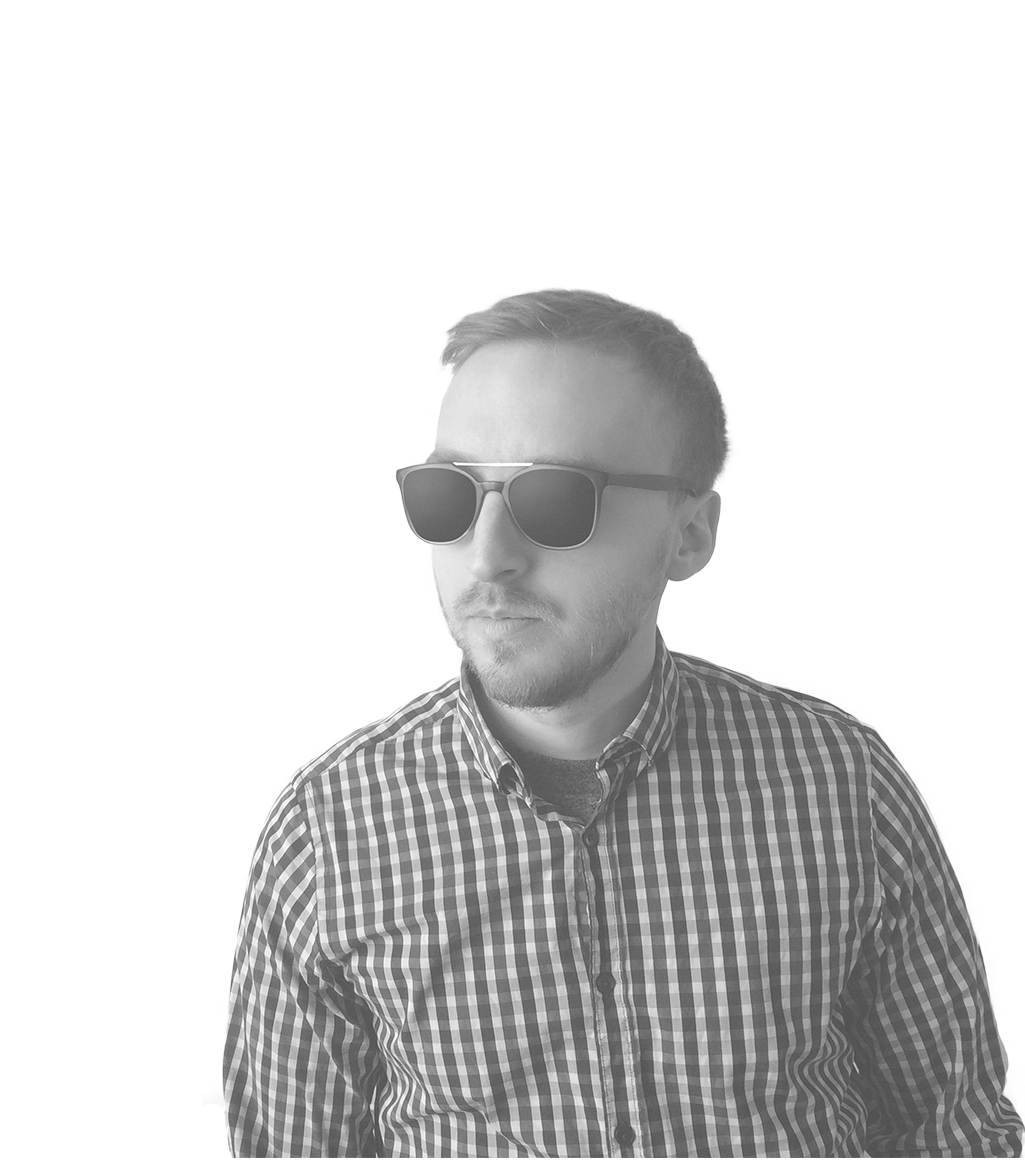
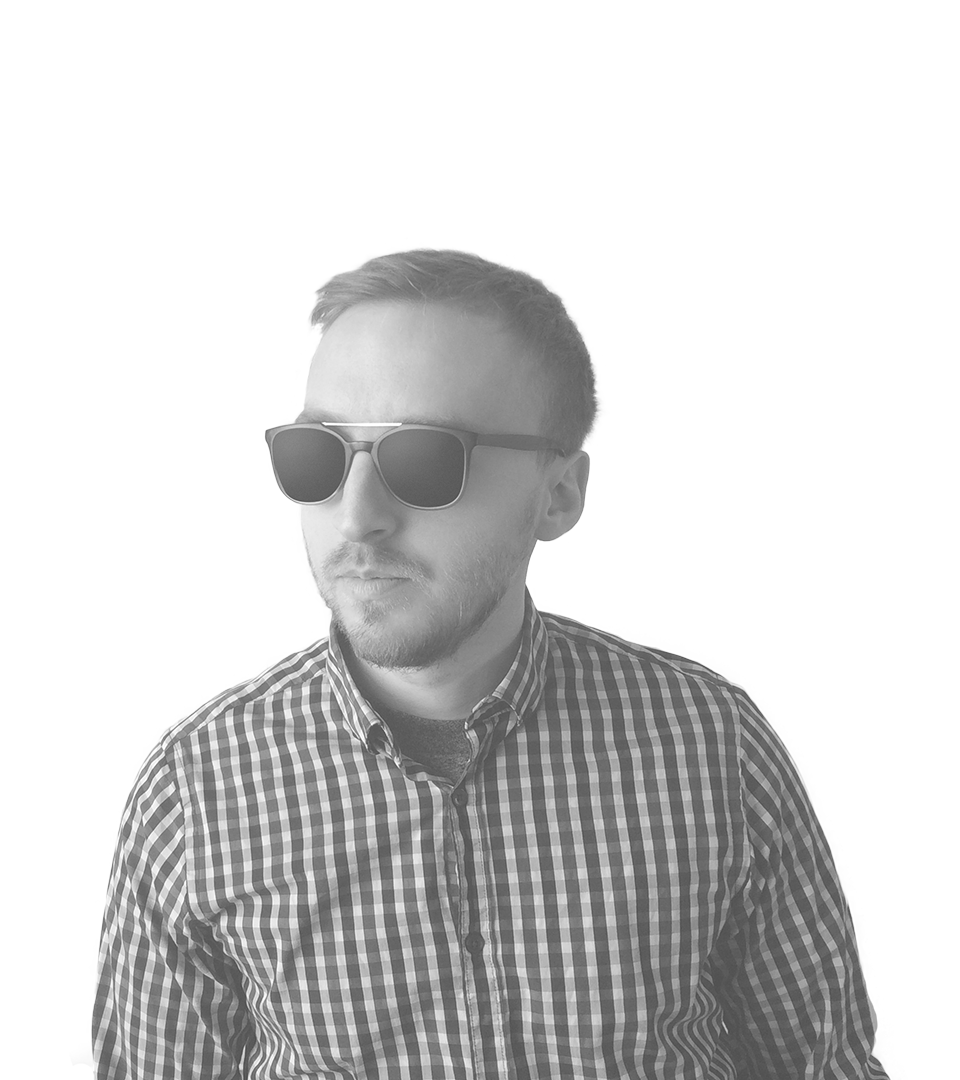
12 - fixed bg position

diff --git a/index.html b/index.html
@@ -1,6 +1,6 @@
 <!DOCTYPE html>
 <head>
-  <title>Hire UI/UX Designer</title>
+  <title>Hello</title>
 
   <!--reset browser css-->
   <link rel="stylesheet" href="https://cdnjs.cloudflare.com/ajax/libs/normalize/5.0.0/normalize.min.css">
@@ -17,32 +17,30 @@
 </head>
 
 <body>
-
   <div class="title">
     <h1>Akos Kovacs</h1>
     <h1>ui/ux designer</h1>
   </div>
+    <div class="aboutme">
+      <h1>About Me</h1>
+      <p><a>#FF5656</a> means a series of numbers for you. But it can be a good color for a button. This is how I realize the world around me over 8 years.</p>
+      <p>I always preferred the community-based knowledge, that’s why I trained myself. My skills/perspective came from the digital world. But I never forget the oldest tools: paper and pen to sketch my ideas. I always looking for new challenges in my life/career. I’m curious that’s the motivation for me. That was the reason why I choosed UI/UX community when I decided to leave the print materials.
+      </p>
+      <p>No matters how many times I should redesign the creative because we need to find the highest quality or closest answer to the solution. Imho new games/apps/methods are always fun especially the difficult ones. Maybe this is the source of my beta addictions.
+      </p>
+      <p>What is the value in a company? I really love working with talented people and I’m open to learning from them. It’s important for me to educate myself. This is why I really love to ask always.</p>
+      <p>
+      I have to note I’m not perfect, it’s really hard for me to remember people’s name and I don’t like tofu.
+      </p>
+    </div>
 
-<div class="aboutme">
-  <h1>About Me</h1>
-  <p><a>#FF5656</a> means a series of numbers for you. But it can be a good color for a button. This is how I realize the world around me over 8 years.</p>
-  <p>I always preferred the community-based knowledge, that’s why I trained myself. My skills/perspective came from the digital world. But I never forget the oldest tools: paper and pen to sketch my ideas. I always looking for new challenges in my life/career. I’m curious that’s the motivation for me. That was the reason why I choosed UI/UX community when I decided to leave the print materials.
-  </p>
-  <p>No matters how many times I should redesign the creative because we need to find the highest quality or closest answer to the solution. Imho new games/apps/methods are always fun especially the difficult ones. Maybe this is the source of my beta addictions.
-  </p>
-  <p>What is the value in a company? I really love working with talented people and I’m open to learning from them. It’s important for me to educate myself. This is why I really love to ask always.</p>
-  <p>
-  I have to note I’m not perfect, it’s really hard for me to remember people’s name and I don’t like tofu.
-  </p>
-</div>
-
-<ul class="externallinks">
-  <h1>Projects and Social</h1>
-  <li><a href="http://hu.linkedin.com/in/akoskovacsme">+ LinkedIn</a></li>
-  <li><a href="http://behance.com/akoskovacsme">+ Behance</a></li>
-  <li><a href="http://dribbble.com/akoskovacsme">+ Dribbble</a></li>
-  <li><a href="http://">+ Curriculum Vitae</a></li>
-  <li><a href="mailto:work@akoskovacs.me">+ Email</a></li>
-</ul>
+    <ul class="externallinks">
+      <h1>Projects and Social</h1>
+      <li><a href="http://hu.linkedin.com/in/akoskovacsme">+ LinkedIn</a></li>
+      <li><a href="http://behance.com/akoskovacsme">+ Behance</a></li>
+      <li><a href="http://dribbble.com/akoskovacsme">+ Dribbble</a></li>
+      <li><a href="http://">+ Curriculum Vitae</a></li>
+      <li><a href="mailto:work@akoskovacs.me">+ Email</a></li>
+    </ul>
 
 </body>

diff --git a/style.css b/style.css
@@ -2,22 +2,16 @@
 body {
   font-family: 'Arvo', serif;
   font-weight: 400;
-  width: 960px;
+  max-width: 960px;
   margin: 0 50px;
-  background-image: url(asset/background.jpg);
-  background-position: right bottom; /*Positioning*/
-  background-color: #c8c8c8;
-  background-repeat: no-repeat;
-  background-size: 100%;
   color: #494953;
-  background-position: 50% 50%;
+  background-color: #c8c8c8;
+  background-image: url(asset/background.jpg);
+  background-repeat: no-repeat;
+
+  background-size: fixed;
+  background-position: right top;
 }
-
-/*
-::selection {
-  background: #FF5656;
-} */
-
 
 a {
   text-decoration: none;
@@ -58,7 +52,10 @@ h1 {
   font-size: 13px;
 }
 
+
+/*LINKS PROJECTS AND SOCIALS*/
 .externallinks {
+  height: 100%;
   list-style: none;
   -webkit-padding-top: 10px;
   -webkit-margin-before: 0em;
@@ -67,8 +64,6 @@ h1 {
   -webkit-margin-end: 0px;
   -webkit-padding-start: 0px;
 }
-
-
 
 .externallinks li {
   max-width: 960px;
@@ -80,62 +75,10 @@ h1 {
   transition: 0.2s;
 }
 
-
-/*test
-
-@media only screen and (min-width: 640px) {
-
-  body {
-  padding: 20px;
-  width: 800px;
-  line-height: 3.5em;
-  }
-
-
-  h1, li {
-    font-size: 45px;
-  }
-
-  .externallinks li {
-    list-style: none;
-    font-weight: 400;
-    padding: 0.5em 0;
-
-  }
-
-  .separator {
-    content: "";
-    border-bottom: 6px solid #6A7EFC;
-    width: 180px;
-    margin: 80px 0;
-  }
-
-  .aboutme p{
-    font-size: 38px;
-  }
-
-  input {
-    margin-top: 50px;
-    height: 140px;
-    width: 100%;
-    border: 5px solid #FF5656;
-    color: #FF5656;
-    background-color: #EDF2F6;
-    border-radius: 100px;
-    font-size: 40px;
-    padding: 0;
-    font-weight: 400;
-    text-decoration: none;
-    cursor: pointer;
-
-    outline: 0;
-  }
-
-  .hint {
-    font-weight: 400;
-    font-style: italic;
-    font-size: 30px;
-    text-align: center;
+/* BREAKPOINTS*/
+@media screen and (max-width: 1024px) { /* Specific to this particular image */
+  img.bg {
+    left: 50%;
+    margin-left: -512px;   /* 50% */
   }
 }
-*/
